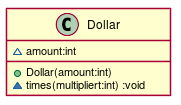
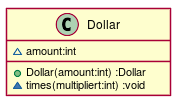
第２章 明白な実装 Step4

Changed region(s): [[0.6354, 0.6286, 0.8011, 0.7429]]

diff --git a/src/main/java/tdd/money/Dollar.java b/src/main/java/tdd/money/Dollar.java
@@ -5,7 +5,8 @@ class Dollar {
     Dollar(int amount){
         this.amount = amount;
     }
-    void times(int multiplier) {
+    Dollar times(int multiplier) {
         amount *= multiplier;
+        return null;
     }
 }

diff --git a/docs/TDD.md b/docs/TDD.md
@@ -48,7 +48,7 @@
 ### クラス図
   
 
-![](./assets/0285dfa24ee25b18e00bb369b57da6820.png?0.7235161972710122)  
+![](./assets/0285dfa24ee25b18e00bb369b57da6820.png?0.6029955648547065)  
 ### シーケンス図
   
   
@@ -83,8 +83,9 @@ class Dollar {
     Dollar(int amount){
         this.amount = amount;
     }
-    void times(int multiplier) {
+    Dollar times(int multiplier) {
         amount *= multiplier;
+        return null;
     }
 }
   

diff --git a/docs/src/TDD.md b/docs/src/TDD.md
@@ -51,7 +51,7 @@ markdown:
 ```puml
 class Dollar {
   ~amount:int
-  +Dollar(amount:int)
+  +Dollar(amount:int) :Dollar
   ~times(multipliert:int) :void
 }
 ```
